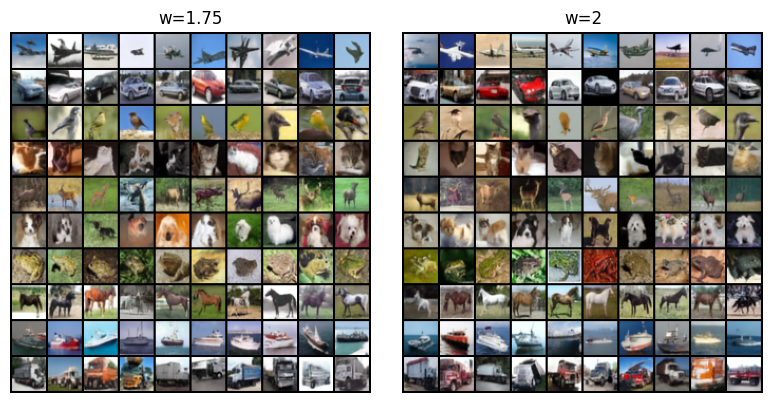
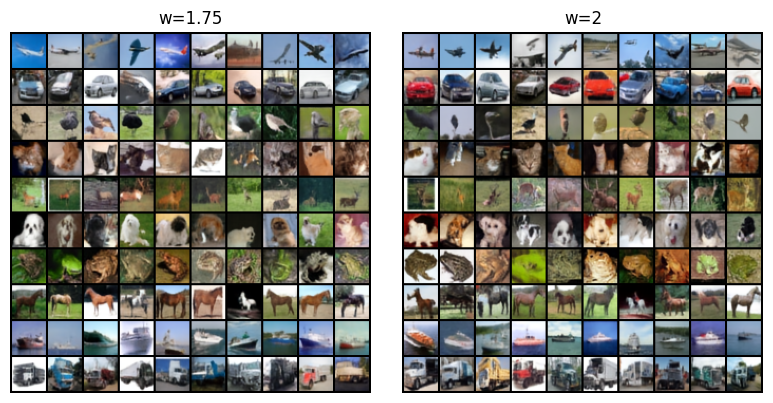
feat: add ckpts through models

diff --git a/models/dit.py b/models/dit.py
@@ -8,6 +8,7 @@ from typing import Optional
 from PIL import Image
 from tqdm import tqdm
 from pathlib import Path
+import os
 
 from models.components import MLP, MHA
 from models.vae import VAE
@@ -281,6 +282,25 @@ class DiffusionTransformerFlowModel(ConditionalVectorField):
         x = self.depatchifier(x)
 
         return x
+
+
+    def load(self, ckpt_name: str, ckpt_dir: Optional[str] = None):
+        state = torch.load(
+            os.path.join(ckpt_dir, f"{ckpt_name}_state.pt"), map_location="cpu"
+        )
+
+        self.load_state_dict(state["model"])
+    
+    @torch.no_grad()
+    def checkpoint(
+        self,
+        ckpt_name: str,
+        ckpt_dir: Optional[str] = None,
+    ):
+        state = {"model": self.state_dict()}
+
+        torch.save(state, os.path.join(ckpt_dir, f"{ckpt_name}_state.pt"))
+
 
     def _latent_shape(self) -> tuple[int, int, int]:
         return self.patchifier.c_in, self.patchifier.img_size, self.patchifier.img_size

diff --git a/models/vae.py b/models/vae.py
@@ -8,6 +8,7 @@ from tqdm import tqdm
 from torch.utils.data import DataLoader, TensorDataset
 from torchvision.utils import make_grid
 from matplotlib import pyplot as plt
+import os
 
 from models.components import MHA, MLP
 
@@ -249,6 +250,25 @@ class VAE(nn.Module):
         z = z_mean + torch.exp(0.5 * z_logvar) * torch.randn_like(z_mean)
         x_mean = self.decode(z)
         return z_mean, z_logvar, x_mean
+    
+    
+    def load(self, ckpt_name: str, ckpt_dir: Optional[str] = None):
+        state = torch.load(
+            os.path.join(ckpt_dir, f"{ckpt_name}_state.pt"), map_location="cpu"
+        )
+        
+        self.load_state_dict(state["model"])
+    
+    @torch.no_grad()
+    def checkpoint(
+        self,
+        ckpt_name: str,
+        ckpt_dir: Optional[str] = None,
+    ):
+        state = {"model": self.state_dict()}
+
+        torch.save(state, os.path.join(ckpt_dir, f"{ckpt_name}_state.pt"))
+
 
     def compute_loss(self, z_mean, z_logvar, x_mean, x_true):
         kl_loss = 0.5 * (z_mean.pow(2) + torch.exp(z_logvar) - z_logvar - 1).mean()

diff --git a/trainers/trainer.py b/trainers/trainer.py
@@ -168,9 +168,9 @@ class Trainer(ABC):
         if self.using_ema_model:
             self.raw_model = copy.deepcopy(self.model)
             self.raw_model.load_state_dict(state["raw"])
-            self.model.load_state_dict(state["ema"])
+            self.model.load_state_dict(state["model"])
         else:
-            self.model.load_state_dict(state["raw"])
+            self.model.load_state_dict(state["model"])
 
         if not hasattr(self, "lr"):
             self.lr = 1e-4

diff --git a/trainers/latent_cfg_trainer.py b/trainers/latent_cfg_trainer.py
@@ -59,7 +59,7 @@ class LatentCFGTrainer(Trainer):
             ckpt_dir = self.output_dir
         state = {
             "raw": self.raw_model.state_dict(),
-            "ema": self.model.state_dict(),
+            "model": self.model.state_dict(),
             "opt": self.opt.state_dict(),
             "global_step": global_step,
             "steps": self.steps,

diff --git a/trainers/vae_trainer.py b/trainers/vae_trainer.py
@@ -30,7 +30,7 @@ class VAETrainer(Trainer):
             ckpt_dir = self.output_dir
 
         state = {
-            "raw": self.model.state_dict(),
+            "model": self.model.state_dict(),
             "opt": self.opt.state_dict(),
             "global_step": global_step,
             "steps": self.steps,